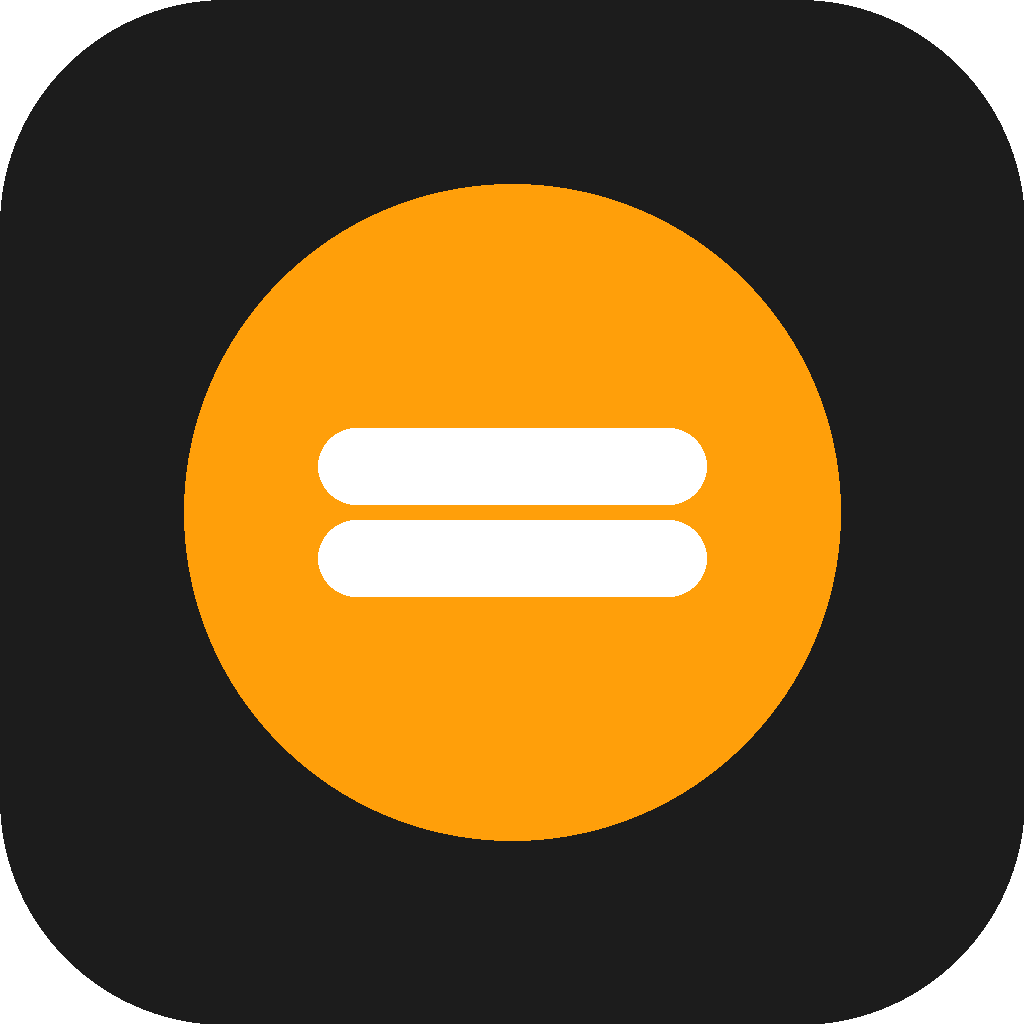
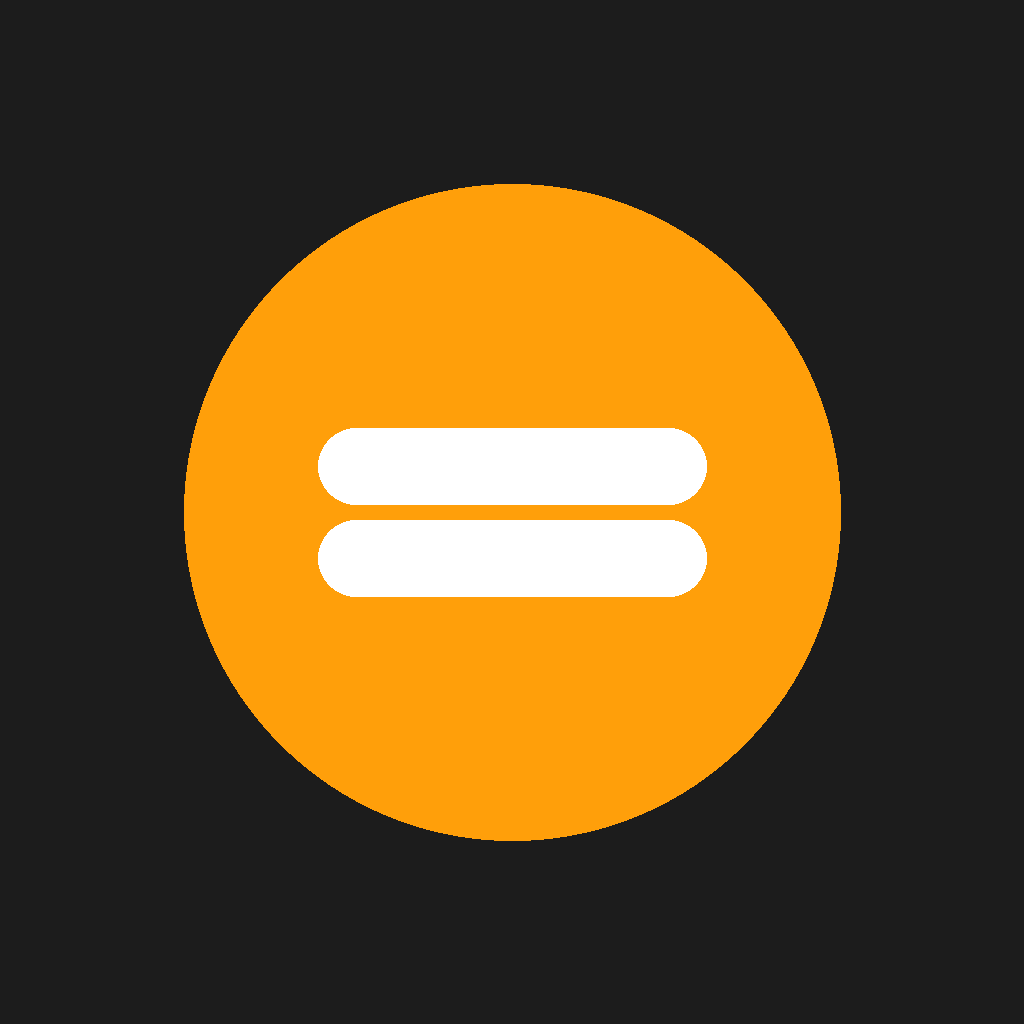
docs: fill in App Store listing copy, privacy policy, and support/privacy URLs

diff --git a/marketing/README.md b/marketing/README.md
@@ -1,0 +1,34 @@
+# Marketing & App Store Submission
+
+Everything needed to list **Simple Calculator** on the Apple App Store lives here. Fill in the blanks marked `TODO`, then copy the final values into App Store Connect when creating the version for submission.
+
+## Files
+
+- [`app-store-listing.md`](app-store-listing.md) — name, subtitle, description, keywords, URLs, category, copyright.
+- [`privacy-policy.md`](privacy-policy.md) — privacy policy text. Must be hosted at a public URL (see TODO inside).
+- [`app-privacy-answers.md`](app-privacy-answers.md) — answers for Apple's "App Privacy" data-collection questionnaire.
+- [`release-notes.md`](release-notes.md) — "What's New in This Version" text, per version.
+- [`screenshots/`](screenshots/) — App Store screenshot images, per device size. See [`screenshots/README.md`](screenshots/README.md) for required sizes and filenames.
+
+## Submission checklist
+
+Config already done in the app (see [devlog.md](../devlog.md)):
+- [x] `ios.bundleIdentifier` set in `app.json`
+- [x] `ios.buildNumber` and export-compliance flag set in `app.json`
+- [x] `build:ios` / `submit:ios` scripts in `package.json`
+- [x] App icon has no alpha channel — `assets/icon.png` is a flattened, fully opaque 1024x1024 PNG.
+
+Still needed before/during submission:
+- [ ] Apple Developer Program enrollment active
+- [ ] App record created in App Store Connect (bundle ID `com.jarviskaru.calculator`)
+- [ ] Privacy policy published at a public URL, linked in `privacy-policy.md`
+- [ ] Support URL decided (can be a GitHub repo page if no dedicated site)
+- [ ] Screenshots captured for required device sizes (`screenshots/README.md`)
+- [ ] Listing copy filled in (`app-store-listing.md`)
+- [ ] App Privacy questionnaire answered in App Store Connect (`app-privacy-answers.md` has the answers)
+- [ ] Age rating questionnaire completed (expect 4+ — no objectionable content, no data collection)
+- [ ] Pricing set (free) and territory availability chosen
+- [ ] Build uploaded via `npm run build:ios` then `npm run submit:ios`
+- [ ] Version submitted for review in App Store Connect
+
+Apple periodically changes exact requirements (screenshot sizes, questionnaire wording) — verify against the live App Store Connect UI at submission time rather than trusting this folder as the final word.

diff --git a/marketing/app-store-listing.md b/marketing/app-store-listing.md
@@ -1,0 +1,83 @@
+# App Store Listing Copy
+
+Field limits are Apple's current limits — App Store Connect will reject anything longer.
+
+## App Name (30 characters max)
+
+```
+Simple Calculator
+```
+
+## Subtitle (30 characters max)
+
+```
+Fast, clean everyday math
+```
+
+## Promotional Text (170 characters max, optional, editable without a new build)
+
+```
+A clean, no-clutter calculator for everyday math — fast, distraction-free, and easy on the eyes.
+```
+
+## Description (4000 characters max)
+
+```
+Simple Calculator is a clean, no-nonsense calculator for everyday math.
+
+FEATURES
+- Basic arithmetic: addition, subtraction, multiplication, division
+- Decimal input and chained operations (e.g. 2 + 3 × 4)
+- Clear error handling — division by zero shows a friendly Error state instead of crashing
+- Clean, dark-themed interface with large, easy-to-tap buttons
+- No ads, no tracking, no account required
+
+Simple Calculator does exactly what it says: it calculates. No clutter, no permissions, no data collection — just a fast, reliable calculator whenever you need one.
+```
+
+## Keywords (100 characters max, comma-separated, no spaces needed after commas)
+
+```
+calculator,math,arithmetic,simple,basic,numbers,calc,utility
+```
+
+## Support URL (required)
+
+```
+https://github.com/lahirugmg/simple-best-cal-support/issues
+```
+
+## Marketing URL (optional)
+
+```
+(none — no dedicated landing page)
+```
+
+## Privacy Policy URL (required)
+
+```
+https://github.com/lahirugmg/simple-best-cal-support/blob/main/privacy-policy.md
+```
+
+## Category
+
+```
+Primary: Utilities
+Secondary: (none)
+```
+
+## Copyright
+
+```
+© 2026 Lahiru Gamage
+```
+
+## Age Rating
+
+Expected: **4+** — no objectionable content, no user-generated content, no data collection. Confirm by completing Apple's age rating questionnaire in App Store Connect.
+
+## Pricing
+
+```
+Free
+```

diff --git a/marketing/screenshots/README.md b/marketing/screenshots/README.md
@@ -1,0 +1,35 @@
+# App Store Screenshots
+
+Apple only strictly requires screenshots for the **largest display size** in each device family you support — App Store Connect auto-scales them down for smaller devices. Verify exact current sizes in App Store Connect at submission time (Apple revises these when new hardware ships); the sizes below are current as of this writing.
+
+## Required: iPhone 6.9" display
+
+- Resolution: **1320 × 2868 px** (portrait)
+- At least 1 screenshot, up to 10
+- Suggested filenames: `iphone-6.9-01.png`, `iphone-6.9-02.png`, ...
+
+## Conditionally required: iPad 13" display
+
+`app.json` currently sets `ios.supportsTablet: true`, which means Apple will expect iPad screenshots too.
+
+- Resolution: **2064 × 2752 px** (portrait)
+- Suggested filenames: `ipad-13-01.png`, `ipad-13-02.png`, ...
+
+**Decision needed:** either capture iPad screenshots, or set `supportsTablet: false` in `app.json` / restrict the App Store Connect listing to iPhone-only if the app isn't meant to be an iPad experience.
+
+## How to capture
+
+Easiest path is the iOS Simulator:
+
+```bash
+npx expo run:ios --device "iPhone 16 Pro Max"
+```
+
+Then in Simulator: `Cmd+S` saves a screenshot straight to your Desktop at the correct resolution for that device.
+
+## Suggested shots (3–5 is plenty for a calculator app)
+
+1. Default state, clean display
+2. Mid-calculation with a chained operation entered
+3. Division-by-zero showing the `Error` state
+4. (optional) Result of a completed calculation

diff --git a/marketing/app-privacy-answers.md b/marketing/app-privacy-answers.md
@@ -1,0 +1,20 @@
+# App Privacy Questionnaire — Answers
+
+Apple requires this "Data collection" questionnaire in App Store Connect for every app (App Store Connect → App Privacy). Answers below are based on the app not making any network requests or using any tracking/analytics SDK — verify this still holds true at submission time (recheck `package.json` dependencies for anything added since).
+
+## Do you or your third-party partners collect data from this app?
+
+```
+No, we do not collect data from this app.
+```
+
+That single answer covers it — Simple Calculator has no network calls, no analytics, no ads, no crash reporting SDK, and stores nothing outside the device. If any of those are added later (e.g. a crash reporter), this file and the App Store Connect answers must be updated to declare the relevant data types (e.g. Diagnostics → Crash Data) before the next submission.
+
+## Reference: data types Apple asks about (for future changes)
+
+If any of the following are ever added to the app, come back and update both this file and the App Store Connect questionnaire:
+
+- Contact Info, Health & Fitness, Financial Info, Location, Sensitive Info
+- Contacts, User Content, Browsing History, Search History
+- Identifiers (User ID, Device ID)
+- Purchases, Usage Data, Diagnostics (Crash Data, Performance Data)

diff --git a/marketing/privacy-policy.md b/marketing/privacy-policy.md
@@ -1,0 +1,36 @@
+# Privacy Policy — Simple Calculator
+
+**Last updated: August 11, 2026**
+
+Simple Calculator ("the App") is developed by Lahiru Gamage.
+
+## Data Collection
+
+Simple Calculator does not collect, store, or transmit any personal data. The App:
+
+- Does not require an account or sign-in.
+- Does not access the internet or send data to any server.
+- Does not use analytics, advertising, or tracking SDKs.
+- Does not request access to your contacts, location, camera, microphone, or any other device permissions.
+
+All calculations happen entirely on your device and are never saved or shared.
+
+## Third-Party Services
+
+Simple Calculator does not integrate with any third-party services, SDKs, or APIs.
+
+## Children's Privacy
+
+Simple Calculator does not collect any data from anyone, including children under 13.
+
+## Changes to This Policy
+
+If this policy changes, the updated version will be posted at this same URL with a revised "Last updated" date.
+
+## Contact
+
+Questions about this policy can be sent to: https://github.com/lahirugmg/simple-best-cal-support/issues
+
+---
+
+Published at: https://github.com/lahirugmg/simple-best-cal-support/blob/main/privacy-policy.md — entered as the "Privacy Policy URL" in `app-store-listing.md` and in App Store Connect.

diff --git a/marketing/release-notes.md b/marketing/release-notes.md
@@ -1,0 +1,9 @@
+# Release Notes ("What's New in This Version")
+
+App Store Connect requires this text on every new version submission (2500 characters max, no fixed limit on first release but keep it short).
+
+## 1.0.0 (initial release)
+
+```
+Initial release of Simple Calculator — a clean, fast calculator for everyday math with basic arithmetic, decimal input, and chained operations.
+```
